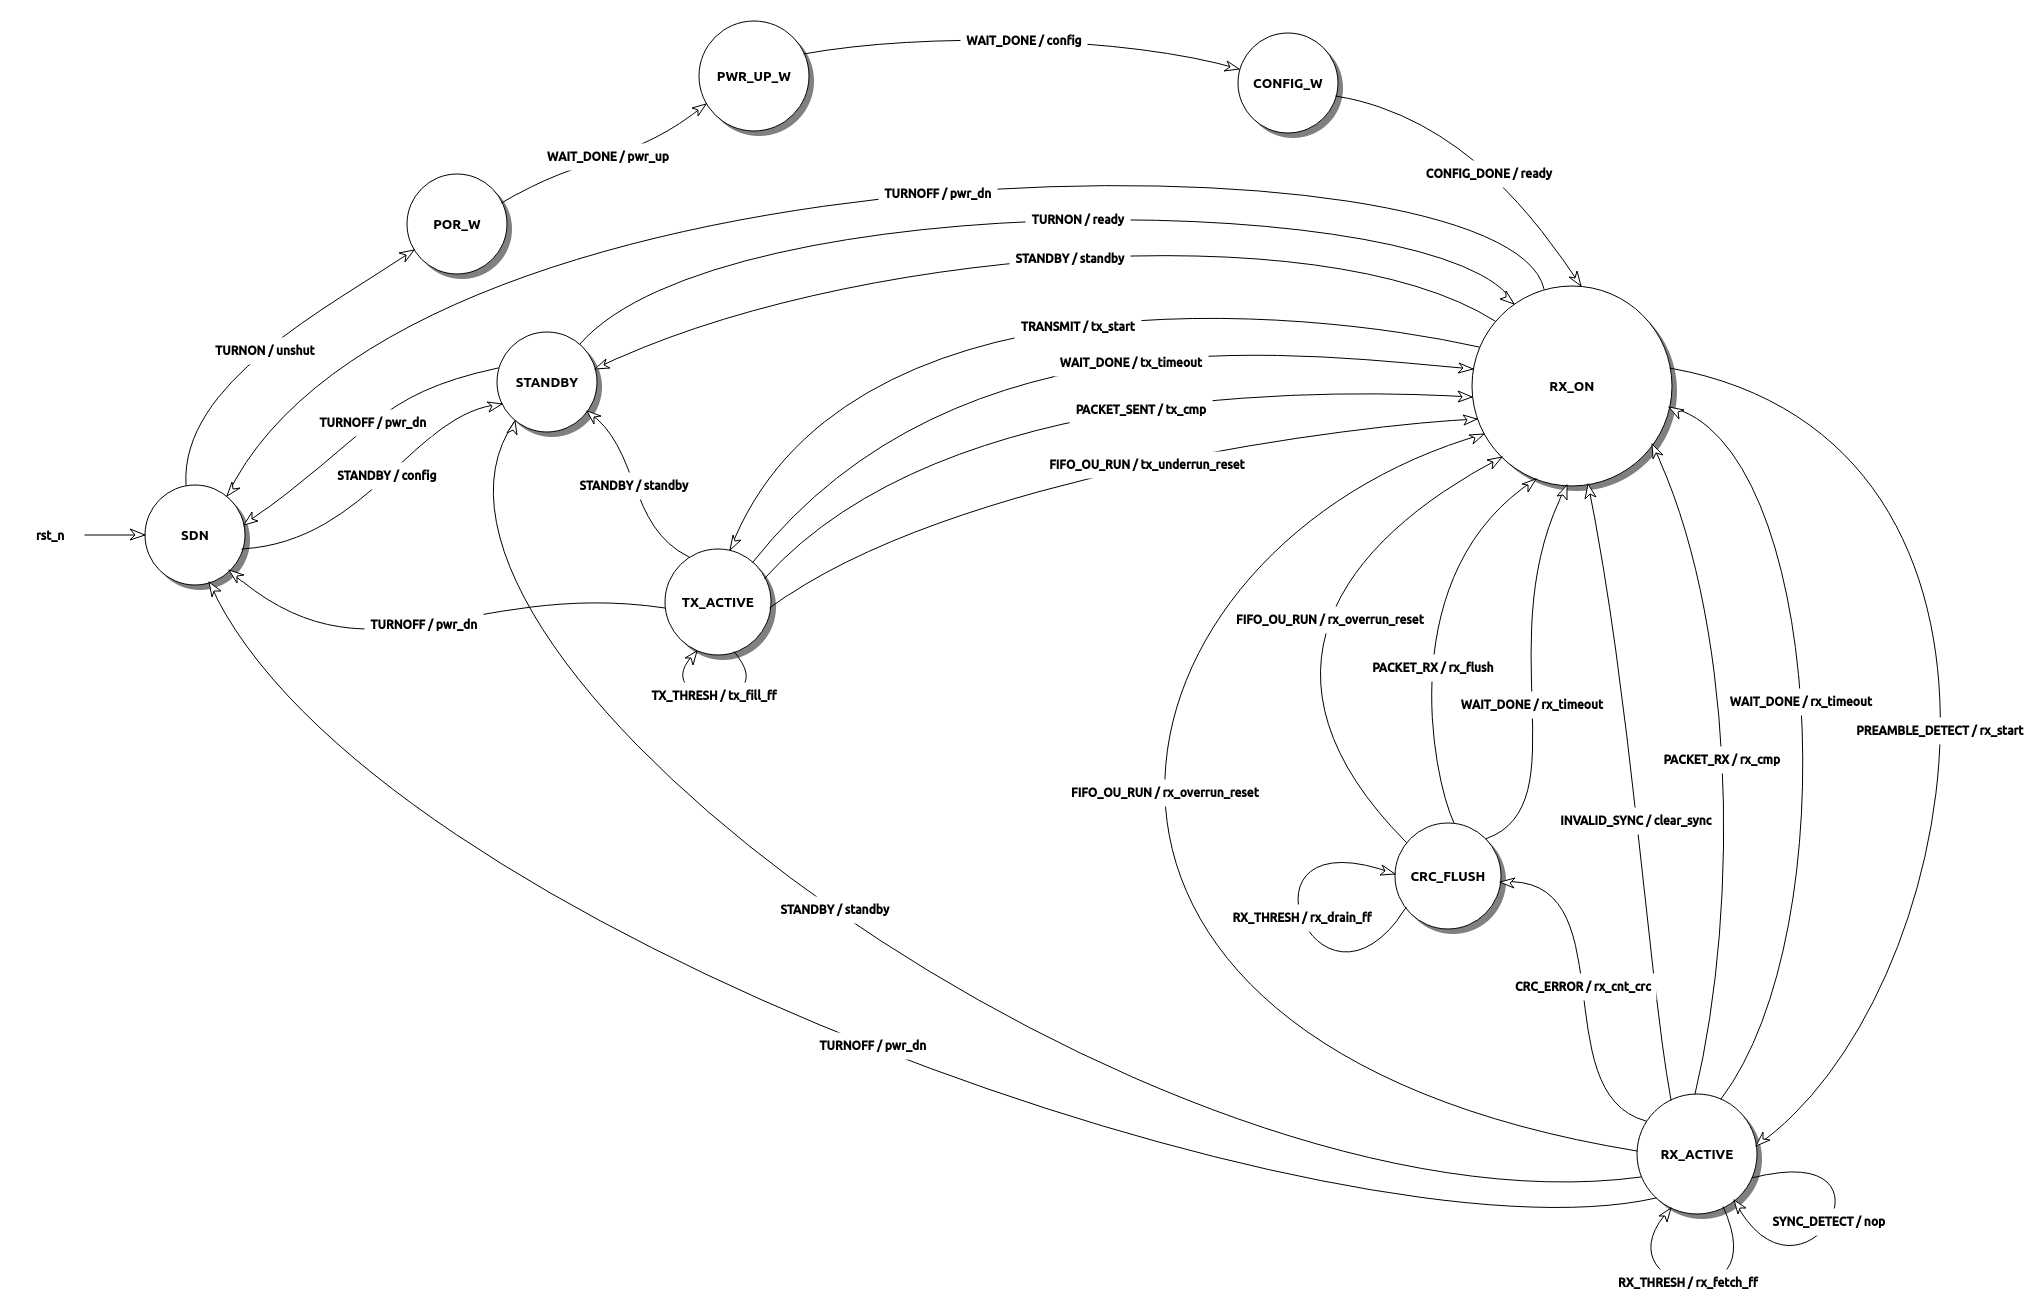
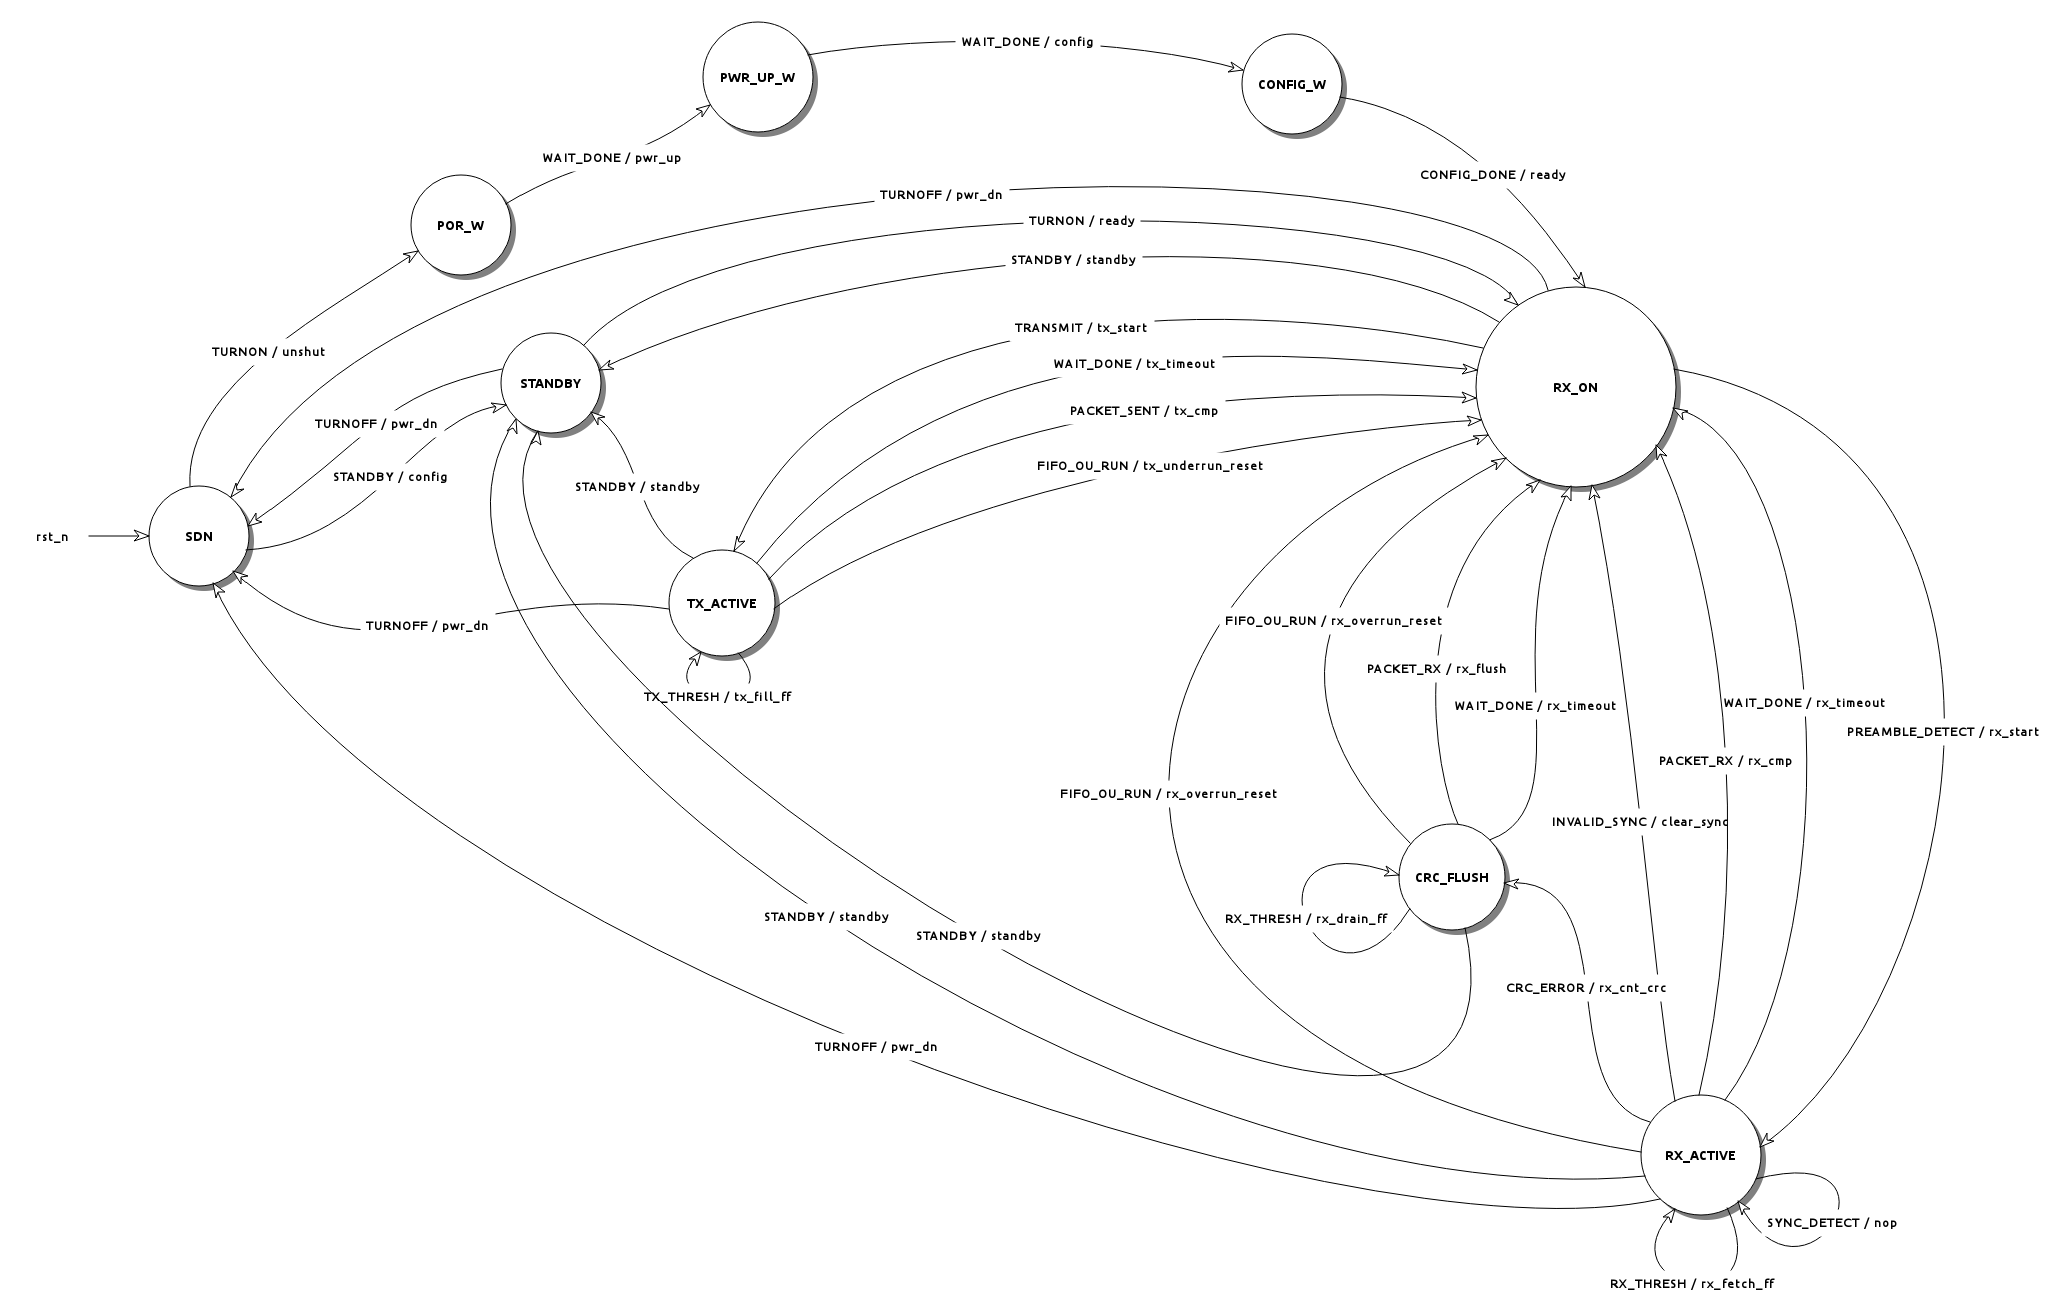
si446x: add STANDBY transition from CRC_FLUSH (missing)

diff --git a/tos/chips/si446x/Si446xFSM.html b/tos/chips/si446x/Si446xFSM.html
@@ -124,7 +124,7 @@
 	<TD>STANDBY<BR>standby</TD>
 	<TD align="Center">-</TD>
 	<TD align="Center">-</TD>
-	<TD align="Center">-</TD>
+	<TD>STANDBY<BR>standby</TD>
 </TR>
 <TR>
 	<TD> SYNC_DETECT</TD>

diff --git a/tos/chips/si446x/Si446xFSM.h b/tos/chips/si446x/Si446xFSM.h
@@ -162,6 +162,7 @@ const fsm_transition_t fsm_e_standby[] = {
   {S_RX_ON, A_STANDBY, S_STANDBY},
   {S_RX_ACTIVE, A_STANDBY, S_STANDBY},
   {S_TX_ACTIVE, A_STANDBY, S_STANDBY},
+  {S_CRC_FLUSH, A_STANDBY, S_STANDBY},
   { S_DEFAULT, A_BREAK, S_DEFAULT },
 };
 
